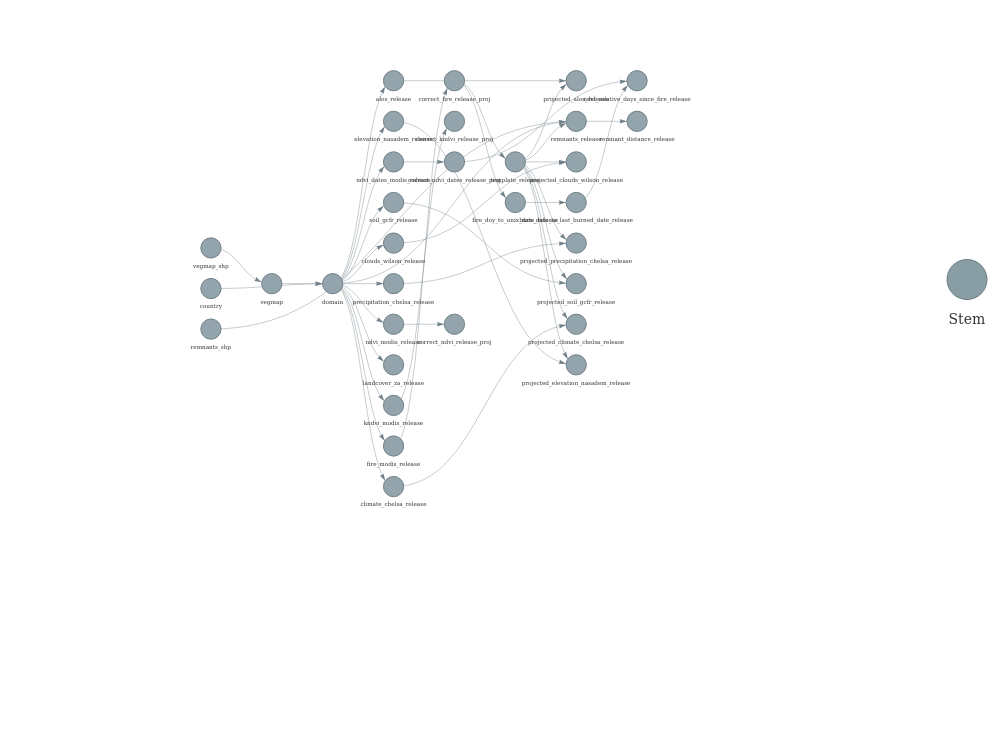
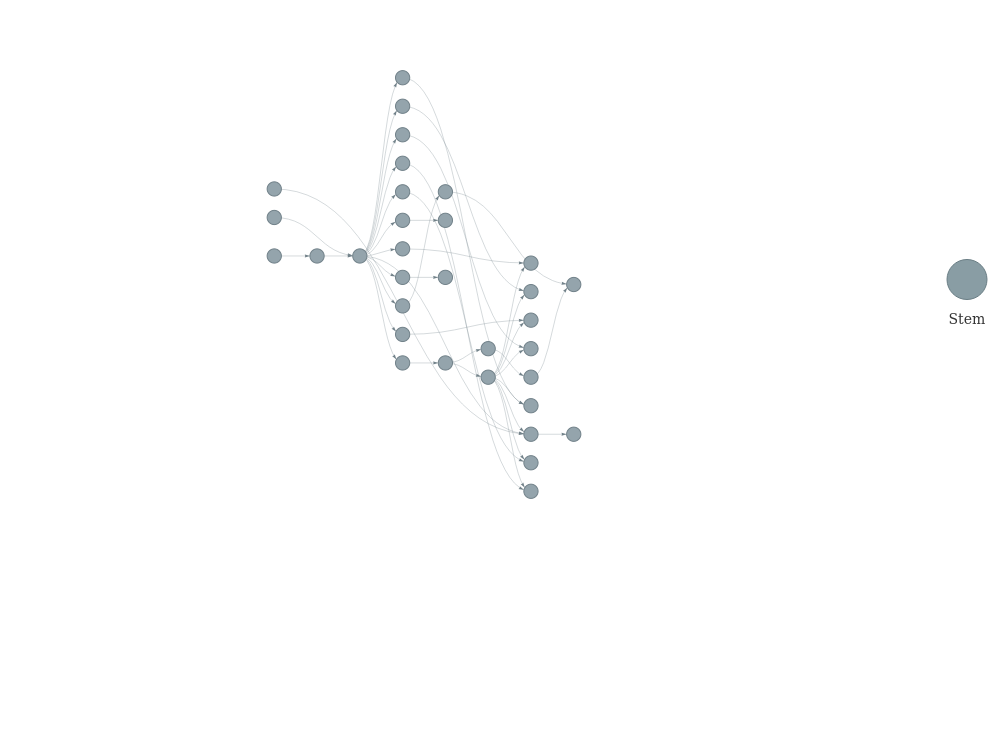
Run pipeline

Changed region(s): [[0.186, 0.0927, 0.682, 0.6801], [0.248, 0.2473, 0.279, 0.3091]]

diff --git a/img/network.html b/img/network.html
@@ -5305,11 +5305,11 @@ HTMLWidgets.widget({
 </head>
 <body style="background-color: white;">
 <div id="htmlwidget_container">
-<div id="htmlwidget-00197feb2eb77d0e6fa7" class="visNetwork html-widget" style="width:960px;height:500px;">
+<div id="htmlwidget-f55255a2c061fee6a8e6" class="visNetwork html-widget" style="width:960px;height:500px;">
 
 </div>
 </div>
-<script type="application/json" data-for="htmlwidget-00197feb2eb77d0e6fa7">{"x":{"nodes":{"name":["template_release","alos_release","elevation_nasadem_release","projected_alos_release","domain","correct_fire_release_proj","ndvi_relative_days_since_fire_release","remnants_release","ndvi_dates_modis_release","correct_kndvi_release_proj","soil_gcfr_release","clouds_wilson_release","fire_doy_to_unix_date_release","correct_ndvi_dates_release_proj","precipitation_chelsa_release","correct_ndvi_release_proj","projected_clouds_wilson_release","ndvi_modis_release","burn_date_to_last_burned_date_release","vegmap_shp","vegmap","country","landcover_za_release","kndvi_modis_release","projected_precipitation_chelsa_release","fire_modis_release","projected_soil_gcfr_release","projected_climate_chelsa_release","projected_elevation_nasadem_release","remnants_shp","remnant_distance_release","climate_chelsa_release"],"type":["stem","stem","stem","stem","stem","stem","stem","stem","stem","stem","stem","stem","stem","stem","stem","stem","stem","stem","stem","stem","stem","stem","stem","stem","stem","stem","stem","stem","stem","stem","stem","stem"],"status":["none","none","none","none","none","none","none","none","none","none","none","none","none","none","none","none","none","none","none","none","none","none","none","none","none","none","none","none","none","none","none","none"],"seconds":[null,null,null,null,null,null,null,null,null,null,null,null,null,null,null,null,null,null,null,null,null,null,null,null,null,null,null,null,null,null,null,null],"bytes":[null,null,null,null,null,null,null,null,null,null,null,null,null,null,null,null,null,null,null,null,null,null,null,null,null,null,null,null,null,null,null,null],"branches":[null,null,null,null,null,null,null,null,null,null,null,null,null,null,null,null,null,null,null,null,null,null,null,null,null,null,null,null,null,null,null,null],"id":["template_release","alos_release","elevation_nasadem_release","projected_alos_release","domain","correct_fire_release_proj","ndvi_relative_days_since_fire_release","remnants_release","ndvi_dates_modis_release","correct_kndvi_release_proj","soil_gcfr_release","clouds_wilson_release","fire_doy_to_unix_date_release","correct_ndvi_dates_release_proj","precipitation_chelsa_release","correct_ndvi_release_proj","projected_clouds_wilson_release","ndvi_modis_release","burn_date_to_last_burned_date_release","vegmap_shp","vegmap","country","landcover_za_release","kndvi_modis_release","projected_precipitation_chelsa_release","fire_modis_release","projected_soil_gcfr_release","projected_climate_chelsa_release","projected_elevation_nasadem_release","remnants_shp","remnant_distance_release","climate_chelsa_release"],"label":["template_release","alos_release","elevation_nasadem_release","projected_alos_release","domain","correct_fire_release_proj","ndvi_relative_days_since_fire_release","remnants_release","ndvi_dates_modis_release","correct_kndvi_release_proj","soil_gcfr_release","clouds_wilson_release","fire_doy_to_unix_date_release","correct_ndvi_dates_release_proj","precipitation_chelsa_release","correct_ndvi_release_proj","projected_clouds_wilson_release","ndvi_modis_release","burn_date_to_last_burned_date_release","vegmap_shp","vegmap","country","landcover_za_release","kndvi_modis_release","projected_precipitation_chelsa_release","fire_modis_release","projected_soil_gcfr_release","projected_climate_chelsa_release","projected_elevation_nasadem_release","remnants_shp","remnant_distance_release","climate_chelsa_release"],"level":[6,4,4,7,3,5,8,7,4,5,4,4,6,5,4,5,7,4,7,1,2,1,4,4,7,4,7,7,7,1,8,4],"color":["#94a4ac","#94a4ac","#94a4ac","#94a4ac","#94a4ac","#94a4ac","#94a4ac","#94a4ac","#94a4ac","#94a4ac","#94a4ac","#94a4ac","#94a4ac","#94a4ac","#94a4ac","#94a4ac","#94a4ac","#94a4ac","#94a4ac","#94a4ac","#94a4ac","#94a4ac","#94a4ac","#94a4ac","#94a4ac","#94a4ac","#94a4ac","#94a4ac","#94a4ac","#94a4ac","#94a4ac","#94a4ac"],"shape":["dot","dot","dot","dot","dot","dot","dot","dot","dot","dot","dot","dot","dot","dot","dot","dot","dot","dot","dot","dot","dot","dot","dot","dot","dot","dot","dot","dot","dot","dot","dot","dot"]},"edges":{"from":["correct_fire_release_proj","domain","domain","alos_release","template_release","country","vegmap","fire_modis_release","burn_date_to_last_burned_date_release","correct_ndvi_dates_release_proj","domain","remnants_shp","template_release","domain","kndvi_modis_release","domain","domain","correct_fire_release_proj","ndvi_dates_modis_release","domain","ndvi_modis_release","clouds_wilson_release","template_release","domain","fire_doy_to_unix_date_release","vegmap_shp","domain","domain","precipitation_chelsa_release","template_release","domain","soil_gcfr_release","template_release","climate_chelsa_release","template_release","elevation_nasadem_release","template_release","remnants_release","domain"],"to":["template_release","alos_release","elevation_nasadem_release","projected_alos_release","projected_alos_release","domain","domain","correct_fire_release_proj","ndvi_relative_days_since_fire_release","ndvi_relative_days_since_fire_release","remnants_release","remnants_release","remnants_release","ndvi_dates_modis_release","correct_kndvi_release_proj","soil_gcfr_release","clouds_wilson_release","fire_doy_to_unix_date_release","correct_ndvi_dates_release_proj","precipitation_chelsa_release","correct_ndvi_release_proj","projected_clouds_wilson_release","projected_clouds_wilson_release","ndvi_modis_release","burn_date_to_last_burned_date_release","vegmap","landcover_za_release","kndvi_modis_release","projected_precipitation_chelsa_release","projected_precipitation_chelsa_release","fire_modis_release","projected_soil_gcfr_release","projected_soil_gcfr_release","projected_climate_chelsa_release","projected_climate_chelsa_release","projected_elevation_nasadem_release","projected_elevation_nasadem_release","remnant_distance_release","climate_chelsa_release"],"arrows":["to","to","to","to","to","to","to","to","to","to","to","to","to","to","to","to","to","to","to","to","to","to","to","to","to","to","to","to","to","to","to","to","to","to","to","to","to","to","to"]},"nodesToDataframe":true,"edgesToDataframe":true,"options":{"width":"100%","height":"100%","nodes":{"shape":"dot","physics":false},"manipulation":{"enabled":false},"edges":{"smooth":{"type":"cubicBezier","forceDirection":"horizontal"}},"physics":{"stabilization":false},"layout":{"hierarchical":{"enabled":true,"direction":"LR"}}},"groups":null,"width":null,"height":null,"idselection":{"enabled":false,"style":"width: 150px; height: 26px","useLabels":true,"main":"Select by id"},"byselection":{"enabled":false,"style":"width: 150px; height: 26px","multiple":false,"hideColor":"rgba(200,200,200,0.5)","highlight":false},"main":{"text":"","style":"font-family:Georgia, Times New Roman, Times, serif;font-weight:bold;font-size:20px;text-align:center;"},"submain":null,"footer":null,"background":"rgba(0, 0, 0, 0)","highlight":{"enabled":true,"hoverNearest":false,"degree":{"from":1,"to":1},"algorithm":"hierarchical","hideColor":"rgba(200,200,200,0.5)","labelOnly":true},"collapse":{"enabled":true,"fit":false,"resetHighlight":true,"clusterOptions":null,"keepCoord":true,"labelSuffix":"(cluster)"},"legend":{"width":0.2,"useGroups":false,"position":"right","ncol":1,"stepX":100,"stepY":100,"zoom":true,"nodes":{"label":["Stem"],"shape":["dot"],"color":["#899DA4"]},"nodesToDataframe":true}},"evals":[],"jsHooks":[]}</script>
-<script type="application/htmlwidget-sizing" data-for="htmlwidget-00197feb2eb77d0e6fa7">{"viewer":{"width":450,"height":350,"padding":15,"fill":true},"browser":{"width":960,"height":500,"padding":40,"fill":false}}</script>
+<script type="application/json" data-for="htmlwidget-f55255a2c061fee6a8e6">{"x":{"nodes":{"name":["projected_elevation_nasadem_release","remnants_shp","landcover_za_release","projected_alos_release","projected_clouds_wilson_release","projected_climate_chelsa_release","burn_date_to_last_burned_date_release","alos_release","climate_chelsa_release","country","projected_landcover_za_release","soil_gcfr_release","domain","precipitation_chelsa_release","correct_ndvi_dates_release_proj","ndvi_relative_days_since_fire_release","ndvi_modis_release","vegmap_shp","fire_doy_to_unix_date_release","correct_ndvi_release_proj","elevation_nasadem_release","kndvi_modis_release","template_release","remnants_release","projected_precipitation_chelsa_release","vegmap","remnant_distance_release","ndvi_dates_modis_release","correct_kndvi_release_proj","projected_soil_gcfr_release","clouds_wilson_release","correct_fire_release_proj","fire_modis_release"],"type":["stem","stem","stem","stem","stem","stem","stem","stem","stem","stem","stem","stem","stem","stem","stem","stem","stem","stem","stem","stem","stem","stem","stem","stem","stem","stem","stem","stem","stem","stem","stem","stem","stem"],"status":["none","none","none","none","none","none","none","none","none","none","none","none","none","none","none","none","none","none","none","none","none","none","none","none","none","none","none","none","none","none","none","none","none"],"seconds":[null,null,null,null,null,null,null,null,null,null,null,null,null,null,null,null,null,null,null,null,null,null,null,null,null,null,null,null,null,null,null,null,null],"bytes":[null,null,null,null,null,null,null,null,null,null,null,null,null,null,null,null,null,null,null,null,null,null,null,null,null,null,null,null,null,null,null,null,null],"branches":[null,null,null,null,null,null,null,null,null,null,null,null,null,null,null,null,null,null,null,null,null,null,null,null,null,null,null,null,null,null,null,null,null],"id":["projected_elevation_nasadem_release","remnants_shp","landcover_za_release","projected_alos_release","projected_clouds_wilson_release","projected_climate_chelsa_release","burn_date_to_last_burned_date_release","alos_release","climate_chelsa_release","country","projected_landcover_za_release","soil_gcfr_release","domain","precipitation_chelsa_release","correct_ndvi_dates_release_proj","ndvi_relative_days_since_fire_release","ndvi_modis_release","vegmap_shp","fire_doy_to_unix_date_release","correct_ndvi_release_proj","elevation_nasadem_release","kndvi_modis_release","template_release","remnants_release","projected_precipitation_chelsa_release","vegmap","remnant_distance_release","ndvi_dates_modis_release","correct_kndvi_release_proj","projected_soil_gcfr_release","clouds_wilson_release","correct_fire_release_proj","fire_modis_release"],"label":["projected_elevation_nasadem_release","remnants_shp","landcover_za_release","projected_alos_release","projected_clouds_wilson_release","projected_climate_chelsa_release","burn_date_to_last_burned_date_release","alos_release","climate_chelsa_release","country","projected_landcover_za_release","soil_gcfr_release","domain","precipitation_chelsa_release","correct_ndvi_dates_release_proj","ndvi_relative_days_since_fire_release","ndvi_modis_release","vegmap_shp","fire_doy_to_unix_date_release","correct_ndvi_release_proj","elevation_nasadem_release","kndvi_modis_release","template_release","remnants_release","projected_precipitation_chelsa_release","vegmap","remnant_distance_release","ndvi_dates_modis_release","correct_kndvi_release_proj","projected_soil_gcfr_release","clouds_wilson_release","correct_fire_release_proj","fire_modis_release"],"level":[7,1,4,7,7,7,7,4,4,1,7,4,3,4,5,8,4,1,6,5,4,4,6,7,7,2,8,4,5,7,4,5,4],"color":["#94a4ac","#94a4ac","#94a4ac","#94a4ac","#94a4ac","#94a4ac","#94a4ac","#94a4ac","#94a4ac","#94a4ac","#94a4ac","#94a4ac","#94a4ac","#94a4ac","#94a4ac","#94a4ac","#94a4ac","#94a4ac","#94a4ac","#94a4ac","#94a4ac","#94a4ac","#94a4ac","#94a4ac","#94a4ac","#94a4ac","#94a4ac","#94a4ac","#94a4ac","#94a4ac","#94a4ac","#94a4ac","#94a4ac"],"shape":["dot","dot","dot","dot","dot","dot","dot","dot","dot","dot","dot","dot","dot","dot","dot","dot","dot","dot","dot","dot","dot","dot","dot","dot","dot","dot","dot","dot","dot","dot","dot","dot","dot"]},"edges":{"from":["elevation_nasadem_release","template_release","domain","alos_release","template_release","clouds_wilson_release","template_release","climate_chelsa_release","template_release","fire_doy_to_unix_date_release","domain","domain","landcover_za_release","template_release","domain","country","vegmap","domain","ndvi_dates_modis_release","burn_date_to_last_burned_date_release","correct_ndvi_dates_release_proj","domain","correct_fire_release_proj","ndvi_modis_release","domain","domain","correct_fire_release_proj","domain","remnants_shp","template_release","precipitation_chelsa_release","template_release","vegmap_shp","remnants_release","domain","kndvi_modis_release","soil_gcfr_release","template_release","domain","fire_modis_release","domain"],"to":["projected_elevation_nasadem_release","projected_elevation_nasadem_release","landcover_za_release","projected_alos_release","projected_alos_release","projected_clouds_wilson_release","projected_clouds_wilson_release","projected_climate_chelsa_release","projected_climate_chelsa_release","burn_date_to_last_burned_date_release","alos_release","climate_chelsa_release","projected_landcover_za_release","projected_landcover_za_release","soil_gcfr_release","domain","domain","precipitation_chelsa_release","correct_ndvi_dates_release_proj","ndvi_relative_days_since_fire_release","ndvi_relative_days_since_fire_release","ndvi_modis_release","fire_doy_to_unix_date_release","correct_ndvi_release_proj","elevation_nasadem_release","kndvi_modis_release","template_release","remnants_release","remnants_release","remnants_release","projected_precipitation_chelsa_release","projected_precipitation_chelsa_release","vegmap","remnant_distance_release","ndvi_dates_modis_release","correct_kndvi_release_proj","projected_soil_gcfr_release","projected_soil_gcfr_release","clouds_wilson_release","correct_fire_release_proj","fire_modis_release"],"arrows":["to","to","to","to","to","to","to","to","to","to","to","to","to","to","to","to","to","to","to","to","to","to","to","to","to","to","to","to","to","to","to","to","to","to","to","to","to","to","to","to","to"]},"nodesToDataframe":true,"edgesToDataframe":true,"options":{"width":"100%","height":"100%","nodes":{"shape":"dot","physics":false},"manipulation":{"enabled":false},"edges":{"smooth":{"type":"cubicBezier","forceDirection":"horizontal"}},"physics":{"stabilization":false},"layout":{"hierarchical":{"enabled":true,"direction":"LR"}}},"groups":null,"width":null,"height":null,"idselection":{"enabled":false,"style":"width: 150px; height: 26px","useLabels":true,"main":"Select by id"},"byselection":{"enabled":false,"style":"width: 150px; height: 26px","multiple":false,"hideColor":"rgba(200,200,200,0.5)","highlight":false},"main":{"text":"","style":"font-family:Georgia, Times New Roman, Times, serif;font-weight:bold;font-size:20px;text-align:center;"},"submain":null,"footer":null,"background":"rgba(0, 0, 0, 0)","highlight":{"enabled":true,"hoverNearest":false,"degree":{"from":1,"to":1},"algorithm":"hierarchical","hideColor":"rgba(200,200,200,0.5)","labelOnly":true},"collapse":{"enabled":true,"fit":false,"resetHighlight":true,"clusterOptions":null,"keepCoord":true,"labelSuffix":"(cluster)"},"legend":{"width":0.2,"useGroups":false,"position":"right","ncol":1,"stepX":100,"stepY":100,"zoom":true,"nodes":{"label":["Stem"],"shape":["dot"],"color":["#899DA4"]},"nodesToDataframe":true}},"evals":[],"jsHooks":[]}</script>
+<script type="application/htmlwidget-sizing" data-for="htmlwidget-f55255a2c061fee6a8e6">{"viewer":{"width":450,"height":350,"padding":15,"fill":true},"browser":{"width":960,"height":500,"padding":40,"fill":false}}</script>
 </body>
 </html>
